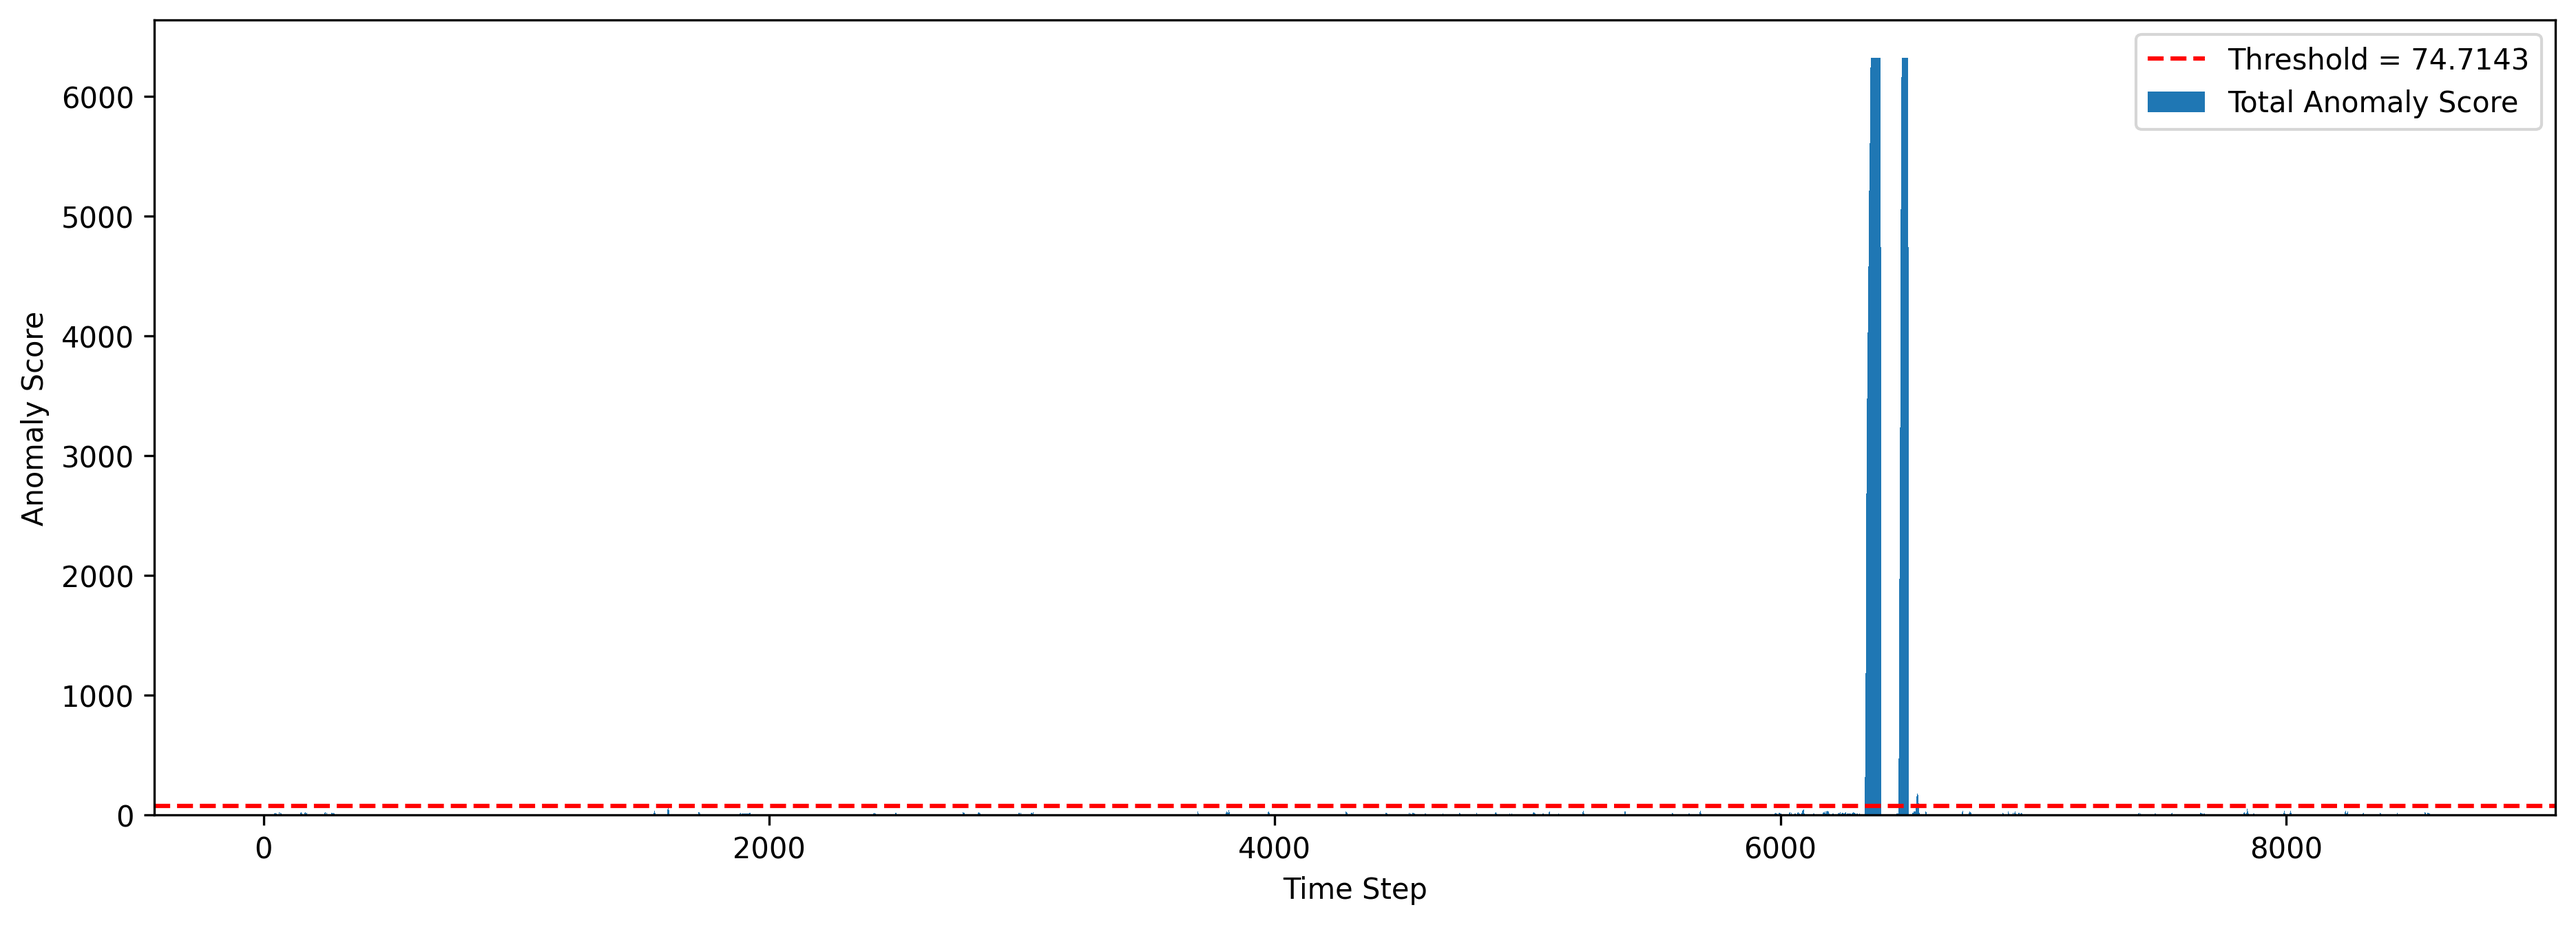
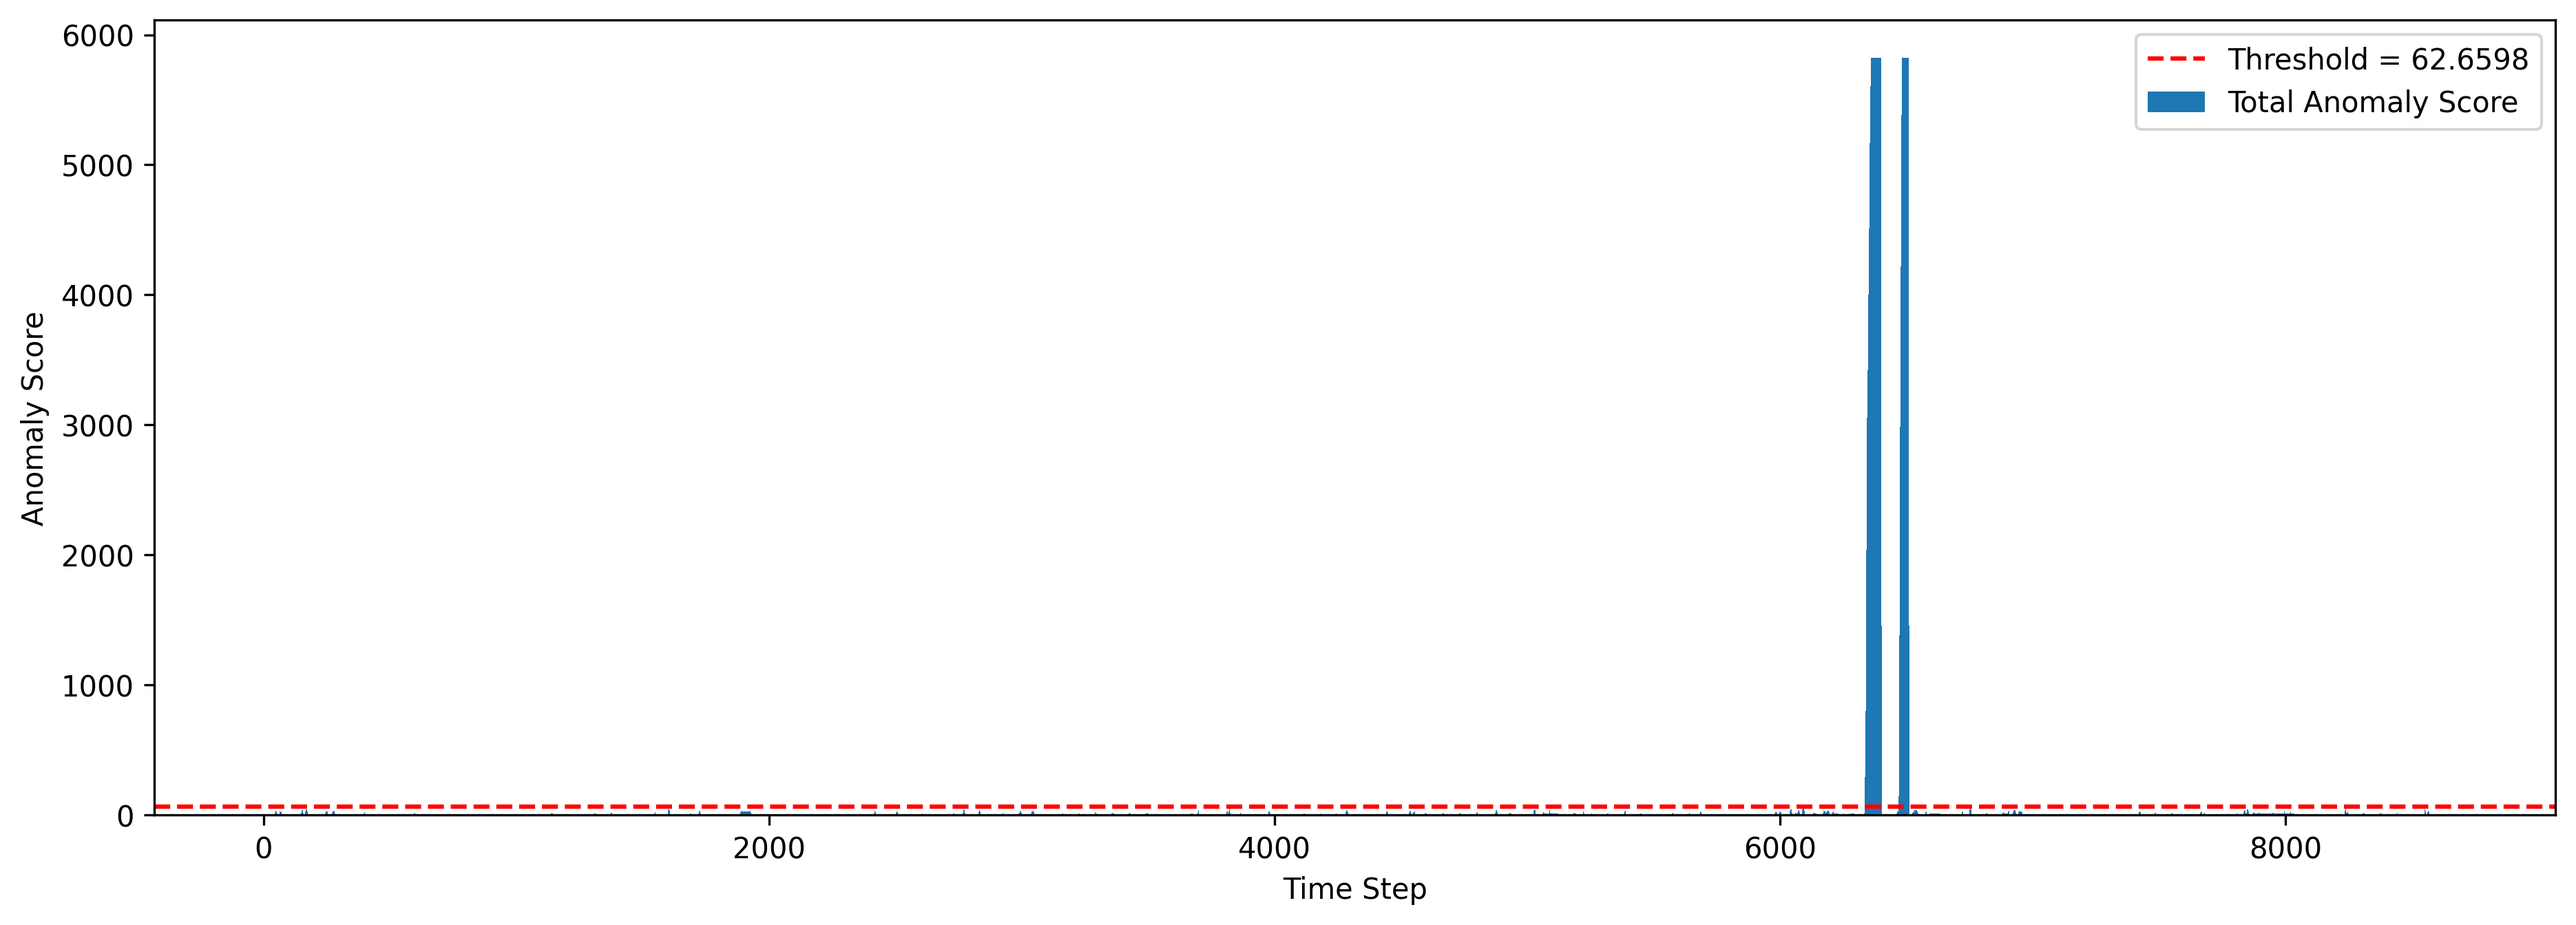
temporal information concat

diff --git a/main.py b/main.py
@@ -114,7 +114,6 @@ class Main():
             ).to(self.device)
 
 
-
     def run(self):
 
         if len(self.env_config['load_model_path']) > 0:
@@ -142,6 +141,7 @@ class Main():
         _, self.adj_result = test_model(best_model, self.adj_dataloader)
 
         self.get_score(self.test_result, self.val_result, self.adj_result, self.train_config['slide_win'])
+
 
     def get_loaders(self, train_dataset, seed, batch, val_ratio=0.1):
         dataset_len = int(len(train_dataset))
@@ -195,12 +195,16 @@ class Main():
     
         test_scores, normal_scores = get_full_err_scores(test_result, val_result)
 
-        top1_adj_info = get_best_performance_data(test_scores, adj_labels, dilation_window, topk=1)
-        threshold = top1_adj_info[-1]
-
-        top1_best_info = get_best_performance_data(test_scores, test_labels, dilation_window, topk=1) 
-        top1_val_info = get_val_performance_data(test_scores, normal_scores, test_labels, dilation_window, topk=1, threshold=threshold)
-        top1_recon_info = get_val_performance_data(test_scores, normal_scores, test_labels, dilation_window, topk=1)
+        if self.env_config['report'] == 'val':
+            top1_adj_info = get_best_performance_data(test_scores, adj_labels, dilation_window, topk=1)
+            threshold = top1_adj_info[-1]
+        
+        if self.env_config['report'] == 'val':
+            top1_val_info = get_val_performance_data(test_scores, normal_scores, test_labels, dilation_window, topk=1, threshold=threshold)
+        elif self.env_config['report'] == 'origin':
+            top1_val_info = get_val_performance_data(test_scores, normal_scores, test_labels, dilation_window, topk=1)
+        elif self.env_config['report'] == 'best':
+            top1_best_info = get_best_performance_data(test_scores, test_labels, dilation_window, topk=1) 
 
         print('=========================** Result **============================\n')
 
@@ -210,8 +214,8 @@ class Main():
         elif self.env_config['report'] == 'val':
             info = top1_val_info
         elif self.env_config['report'] == 'origin':
-            info = top1_recon_info
-            threshold = top1_recon_info[-1]
+            info = top1_val_info
+            threshold = top1_val_info[-1]
 
         print(f'F1 score: {info[0]}')
         print(f'Precision: {info[1]}')
@@ -249,6 +253,7 @@ class Main():
             Path(dirname).mkdir(parents=True, exist_ok=True)
 
         return paths
+
 
 if __name__ == "__main__":
 
